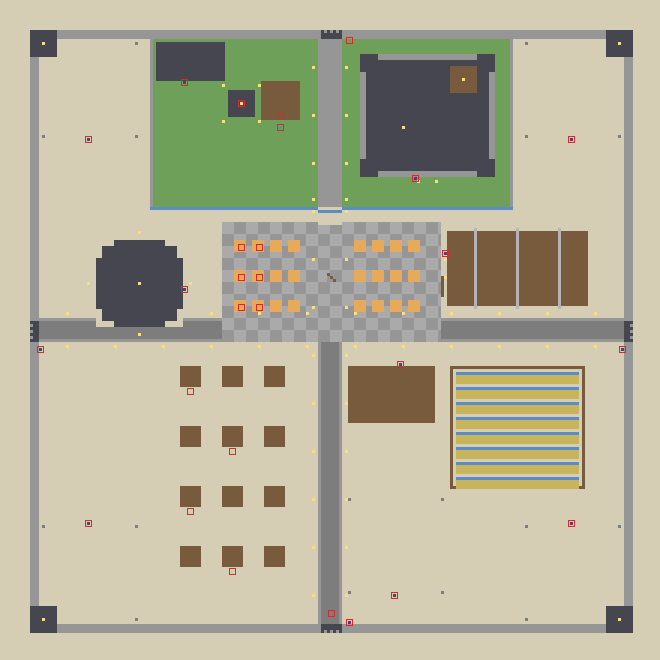
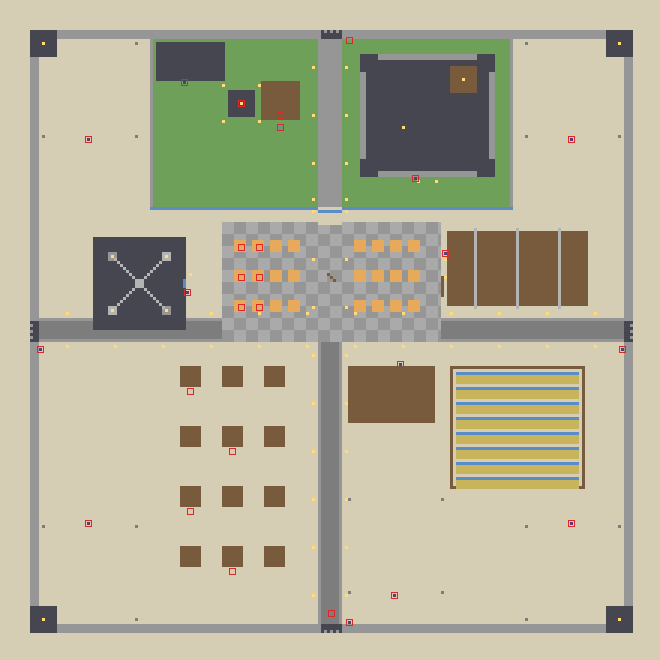
Capital: shrine C (open stone ring with four titan stones and bone beams) in the blueprint

Changed region(s): [[0.1212, 0.3333, 0.303, 0.5152], [0.1818, 0.3939, 0.2424, 0.4545]]

diff --git a/tools/gen_capital.py b/tools/gen_capital.py
@@ -365,27 +365,36 @@ def guild():
     lantern_post(x0 - 2, 0, cz + 3)
 
 
+TITAN_BLOCKS = ('stone_bricks', 'prismarine_bricks', 'cut_copper', 'polished_blackstone_bricks')  # 岩鯨・潮殻・雷翼・余燼
+
+
 def shrine():
-    # 四巨神の社 (中心 -64, -16。28×28、隅を落とす)。閉じた戸 (東)。碑
-    cx, cz, r = -64, -16, 14
-    x0, z0, x1, z1 = cx - r, cz - r, cx + r, cz + r
-    box(x0, -1, z0, x1, -1, z1, 'polished_deepslate')
-    box(x0, 0, z0, x1, 9, z1, 'deepslate_bricks')
-    box(x0 + 1, 0, z0 + 1, x1 - 1, 8, z1 - 1, 'air')
-    # 隅を落とす (6 ブロック)
-    for ax, az in ((x0, z0), (x1 - 5, z0), (x0, z1 - 5), (x1 - 5, z1 - 5)):
-        box(ax, -1, az, ax + 5, 10, az + 5, 'air')
-        box(ax, -1, az, ax + 5, -1, az + 5, 'grass_block')
-    box(x0 + 2, 10, z0 + 2, x1 - 2, 10, z1 - 2, 'deepslate_tile_slab[type=bottom,waterlogged=false]')
-    box(cx - 2, 11, cz - 2, cx + 2, 13, cz + 2, 'deepslate_bricks')
-    blk(cx, 14, cz, 'lantern[hanging=false]')
-    # 戸 (東)
-    blk(x1, 0, cz, 'iron_door[facing=west,half=lower,hinge=left,open=false,powered=false]')
-    blk(x1, 1, cz, 'iron_door[facing=west,half=upper,hinge=left,open=false,powered=false]')
-    tablet(x1 + 1, 0, cz + 2, 'east', 'shrine')
-    # 四つの灯 (四体の巨神)
-    for dx, dz in ((-r - 3, 0), (r + 3, 0), (0, -r - 3), (0, r + 3)):
-        lantern_post(cx + dx, 0, cz + dz, 4)
+    # 四巨神の社 (ラフ C「石の輪の社」で決定。中心 -64, -16)。屋根のない社: 四つの巨神の石 (3×3・高さ 9) が輪に立ち、
+    # 骨の梁が中央の鍵の間の台を覆う。輪は低い壁。東の門は閉じている (鉄格子) と碑
+    cx, cz, r = -64, -16, 15
+    box(cx - r, -1, cz - r, cx + r, -1, cz + r, 'polished_deepslate')
+    wall = 'deepslate_brick_wall[up=true,north=none,south=none,east=none,west=none,waterlogged=false]'
+    box(cx - r, 0, cz - r, cx + r, 0, cz - r, wall)
+    box(cx - r, 0, cz + r, cx + r, 0, cz + r, wall)
+    box(cx - r, 0, cz - r, cx - r, 0, cz + r, wall)
+    box(cx + r, 0, cz - r, cx + r, 0, cz + r, wall)
+    for (dx, dz), tb in zip(((-9, -9), (9, -9), (-9, 9), (9, 9)), TITAN_BLOCKS):
+        box(cx + dx - 1, 0, cz + dz - 1, cx + dx + 1, 8, cz + dz + 1, tb)
+        blk(cx + dx, 9, cz + dz, 'lantern[hanging=false]')
+        for k in range(1, 9):
+            x = cx + dx - (dx // 9) * k
+            z = cz + dz - (dz // 9) * k
+            blk(x, 8 + k // 3, z, 'bone_block[axis=y]')
+    box(cx - 1, 11, cz - 1, cx + 1, 11, cz + 1, 'bone_block[axis=y]')
+    blk(cx, 10, cz, 'lantern[hanging=true]')
+    # 鍵の間の台
+    box(cx - 1, 0, cz - 1, cx + 1, 0, cz + 1, 'polished_deepslate')
+    blk(cx, 1, cz, 'lantern[hanging=false]')
+    # 東の門 (閉じている) と碑
+    opening(cx + r, 0, cz - 1, cx + r, 2, cz + 1)
+    box(cx + r, 0, cz - 1, cx + r, 2, cz + 1, 'iron_bars[north=false,south=false,east=true,west=true,waterlogged=false]')
+    tablet(cx + r + 1, 0, cz + 3, 'east', 'shrine')
+    lantern_post(cx + r + 2, 0, cz - 3, 3)
 
 
 def smithy():
